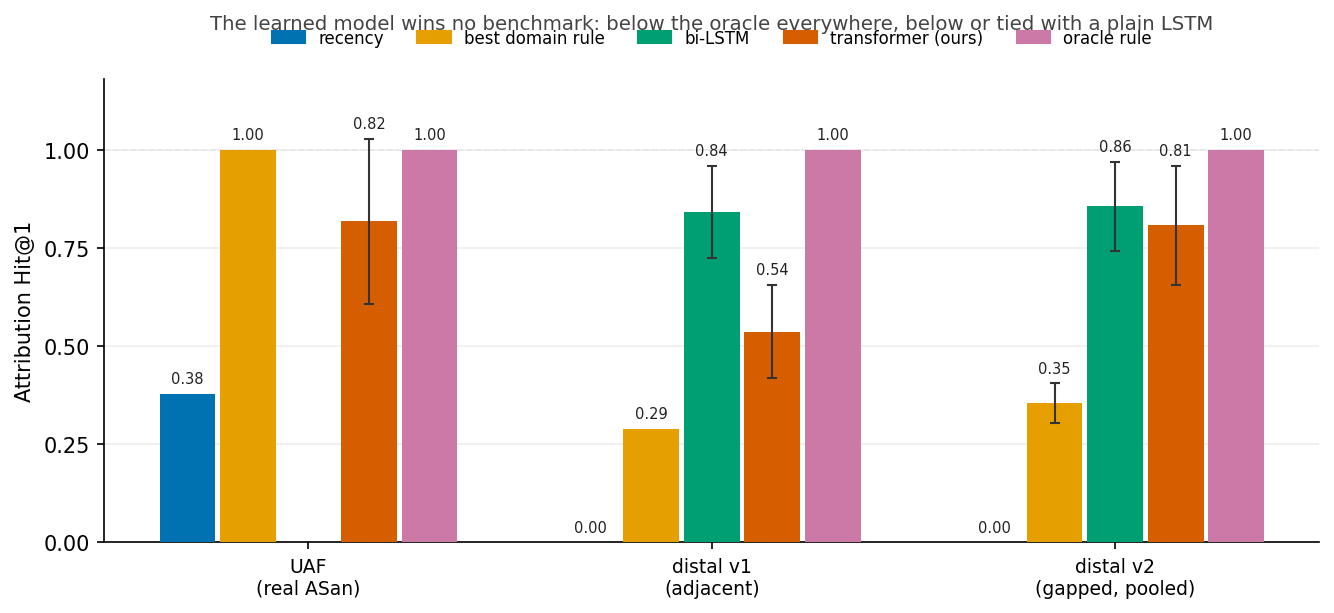
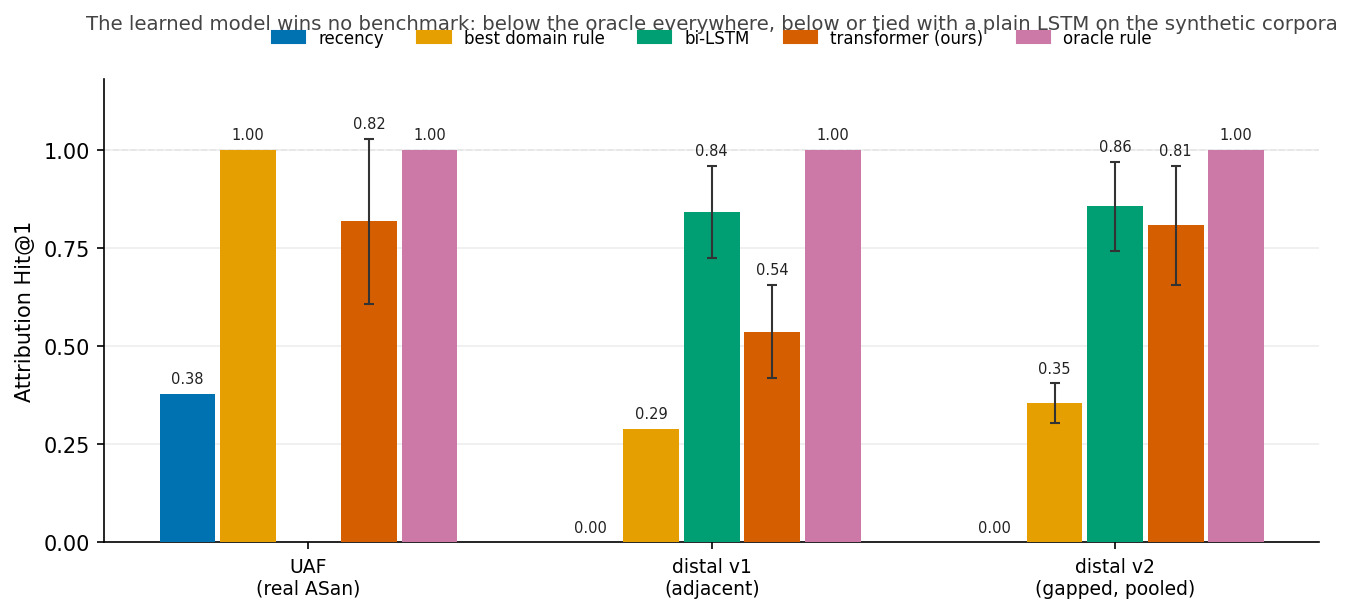
docs(paper): final council pass — fix Fig1 caption pooled-label, add paired sign test (p=0.035) for causal>bidi, scope figure headline

diff --git a/docs/paper/bibe.tex b/docs/paper/bibe.tex
@@ -34,7 +34,7 @@ We found four things, in the order we found them. On use-after-free, labeled aut
 \begin{figure}[t]
   \centering
   \includegraphics[width=\linewidth]{fig1_summary.png}
-  \caption{Attribution Hit@1 by corpus and method. The learned transformer sits below the oracle rule on every corpus and at or below a generic bi-LSTM; it clears the recency-family baselines but never the oracle or the LSTM. Transformer bars use object bias 4; the v2 transformer and same-object-write bars are pooled over three corpus realizations, the rest are a single realization. Error bars are $\pm$ population standard deviation over five model-init seeds; deterministic rules have none. Produced by \code{fig1\_summary.py}.}
+  \caption{Attribution Hit@1 by corpus and method. The learned transformer sits below the oracle rule on every corpus and at or below a generic bi-LSTM; it clears the recency-family baselines but never the oracle or the LSTM. Transformer bars use object bias 4; the UAF and v2 transformer bars and the v2 same-object-write bar are pooled over three corpus realizations, the rest are a single realization. Error bars are $\pm$ population standard deviation over five model-init seeds; deterministic rules have none. Produced by \code{fig1\_summary.py}.}
   \label{fig:summary}
 \end{figure}
 
@@ -94,7 +94,7 @@ Our first generator, v1 (adjacent), emitted the \code{trigger} and the causal wr
 \section{Ablations}
 
 \paragraph{Bidirectional versus causal attention.}
-The system is built around bidirectional attention, on the argument that a cause can precede or follow its symptom in a trace. We had never tested it. Across three corpora, no benchmark shows bidirectionality helping, and the real corpus shows it hurting. On real use-after-free, pooled over three corpus realizations, the backward-only model scores $0.989 \pm 0.021$ against the bidirectional model's $0.818 \pm 0.210$, and it wins on every one of the three realizations ($0.976, 0.994, 0.998$ versus $0.824, 0.819, 0.812$), close to the oracle and far tighter. On v1 the causal model is higher on the mean ($0.805 \pm 0.235$ versus $0.537 \pm 0.118$); on v2 the two overlap. Every cause in these benchmarks precedes its symptom, so backward-only attention is sufficient and the forward half adds noise. We dropped ``bidirectional'' from the title on this result. The forward-cause case that motivated the design appears in none of our benchmarks and remains untested.
+The system is built around bidirectional attention, on the argument that a cause can precede or follow its symptom in a trace. We had never tested it. Across three corpora, no benchmark shows bidirectionality helping, and the real corpus shows it hurting. On real use-after-free, pooled over three corpus realizations, the backward-only model scores $0.989 \pm 0.021$ against the bidirectional model's $0.818 \pm 0.210$, and it wins on every one of the three realizations ($0.976, 0.994, 0.998$ versus $0.824, 0.819, 0.812$), close to the oracle and far tighter. The pooled intervals overlap, but the comparison is paired: the $\pm 0.210$ is model-seed spread around each realization mean, not uncertainty in the effect. Causal beats bidirectional in 12 of 15 seed pairs (sign test, two-sided $p = 0.035$) and in all three realization means. On v1 the causal model is higher on the mean ($0.805 \pm 0.235$ versus $0.537 \pm 0.118$); on v2 the two overlap. Every cause in these benchmarks precedes its symptom, so backward-only attention is sufficient and the forward half adds noise. We dropped ``bidirectional'' from the title on this result. The forward-cause case that motivated the design appears in none of our benchmarks and remains untested.
 
 \paragraph{Object bias.}
 The object-bias prior is the same-object heuristic added to the attention scores. Table~\ref{tab:bias} sweeps it.
@@ -133,7 +133,7 @@ Except where we state a pooled number, each $\pm$ is over five model-init seeds 
 The evaluation now scores the window containing the crash and reports a drop count for anomalous traces whose cause falls outside that window. On the templated corpus the drop count is zero, so its numbers are unchanged. The filter was real, though: the mjs crash sat in window 191 and the old first-window evaluation would have dropped it silently. On a longer corpus this filter would bias the retained set toward traces where the cause sits near the crash, which is where recency is trivially right.
 
 \paragraph{Scope.}
-All corpora share one program family or one generator, so cross-program generalization is unmeasured. The evaluation is at small scale (\dmodel${}=64$, two layers, window 64) with roughly 38 to 82 anomalous test traces per corpus, most of them synthetic. The interesting regime, distal causes, has no automatic oracle, so we could not build a real corpus for it; that is the central limitation and the reason the positive claim stays hypothetical.
+All corpora share one program family or one generator, so cross-program generalization is unmeasured. The evaluation is at small scale (\dmodel${}=64$, two layers, window 64) with roughly 37 to 82 anomalous test traces per corpus, most of them synthetic. The interesting regime, distal causes, has no automatic oracle, so we could not build a real corpus for it; that is the central limitation and the reason the positive claim stays hypothetical.
 
 \paragraph{Baseline fairness.}
 The LSTM trains on a single objective (cause cross-entropy) while the transformer trains on several. On the synthetic corpora both models see whole traces of at most 64 events, so windowing is not a confound there. The residual asymmetries cut both ways: the object prior favors the transformer, while the LSTM's single objective is exactly the cause metric and the transformer's attribution head competes with anomaly and sparsity losses, which favors the LSTM. Neither rescues the transformer, which ties or loses regardless.

diff --git a/docs/paper/fig1_summary.py b/docs/paper/fig1_summary.py
@@ -70,7 +70,7 @@ handles = [plt.Rectangle((0, 0), 1, 1, color=COLOR[m]) for m in METHODS]
 ax.legend(handles, METHODS, ncol=5, fontsize=8, frameon=False,
           loc="upper center", bbox_to_anchor=(0.5, 1.14))
 ax.set_title("The learned model wins no benchmark: below the oracle everywhere, "
-             "below or tied with a plain LSTM",
+             "below or tied with a plain LSTM on the synthetic corpora",
              fontsize=9.5, color="#444444", pad=24)
 fig.tight_layout()
 out = __file__.rsplit("/", 1)[0] + "/fig1_summary.svg"

diff --git a/docs/paper/bibe.md b/docs/paper/bibe.md
@@ -15,7 +15,7 @@ We found four things, in the order we found them. On use-after-free, labeled aut
 
 ![Figure 1](fig1_summary.png)
 
-**Figure 1.** Attribution Hit@1 by corpus and method. The learned transformer sits below the oracle rule on every corpus and at or below a generic bi-LSTM; it clears the recency-family baselines but never the oracle or the LSTM. Transformer bars use object bias 4; the v2 transformer and same-object-write bars are pooled over three corpus realizations, the rest are a single realization. Error bars are ± population standard deviation over five model-init seeds; deterministic rules have none. Produced by `fig1_summary.py`.
+**Figure 1.** Attribution Hit@1 by corpus and method. The learned transformer sits below the oracle rule on every corpus and at or below a generic bi-LSTM; it clears the recency-family baselines but never the oracle or the LSTM. Transformer bars use object bias 4; the UAF and v2 transformer bars and the v2 same-object-write bar are pooled over three corpus realizations, the rest are a single realization. Error bars are ± population standard deviation over five model-init seeds; deterministic rules have none. Produced by `fig1_summary.py`.
 
 The reason the result is worth reporting, rather than filing as a failed experiment, is that the failure has a clean structure. Learning does not help where an automatic oracle exists, because the property that creates the oracle (the cause is the most-recent related event) also solves the problem in one line. Learning might help where the cause is distal, but that regime has no automatic oracle, so there is no cheap way to get the labels a model needs. The gap between the two is not a modeling gap. It is a data-acquisition wall, and we walked into it on real code.
 
@@ -65,7 +65,7 @@ Our first generator, v1 (adjacent), emitted the `trigger` and the causal write a
 
 ## 5. Ablations
 
-**Bidirectional versus causal attention.** The system is built around bidirectional attention, on the argument that a cause can precede or follow its symptom in a trace. We had never tested it. Across three corpora, no benchmark shows bidirectionality helping, and the real corpus shows it hurting. On real use-after-free, pooled over three corpus realizations, the backward-only model scores 0.989 ± 0.021 against the bidirectional model's 0.818 ± 0.210, and it wins on every one of the three realizations (0.976, 0.994, 0.998 versus 0.824, 0.819, 0.812), close to the oracle and far tighter. On v1 the causal model is higher on the mean (0.805 ± 0.235 versus 0.537 ± 0.118); on v2 the two overlap. Every cause in these benchmarks precedes its symptom, so backward-only attention is sufficient and the forward half adds noise. We dropped "bidirectional" from the title on this result. The forward-cause case that motivated the design appears in none of our benchmarks and remains untested.
+**Bidirectional versus causal attention.** The system is built around bidirectional attention, on the argument that a cause can precede or follow its symptom in a trace. We had never tested it. Across three corpora, no benchmark shows bidirectionality helping, and the real corpus shows it hurting. On real use-after-free, pooled over three corpus realizations, the backward-only model scores 0.989 ± 0.021 against the bidirectional model's 0.818 ± 0.210, and it wins on every one of the three realizations (0.976, 0.994, 0.998 versus 0.824, 0.819, 0.812), close to the oracle and far tighter. The pooled intervals overlap, but the comparison is paired: the ± 0.210 is model-seed spread around each realization mean, not uncertainty in the effect. Causal beats bidirectional in 12 of 15 seed pairs (sign test, two-sided p = 0.035) and in all three realization means. On v1 the causal model is higher on the mean (0.805 ± 0.235 versus 0.537 ± 0.118); on v2 the two overlap. Every cause in these benchmarks precedes its symptom, so backward-only attention is sufficient and the forward half adds noise. We dropped "bidirectional" from the title on this result. The forward-cause case that motivated the design appears in none of our benchmarks and remains untested.
 
 **Object bias.** The object-bias prior is the same-object heuristic added to the attention scores. Table 2 sweeps it.
 
@@ -93,7 +93,7 @@ The part that does not work is the measurement. `gc_free_block` occurs exactly o
 
 **Selection by window.** The evaluation now scores the window containing the crash and reports a drop count for anomalous traces whose cause falls outside that window. On the templated corpus the drop count is zero, so its numbers are unchanged. The filter was real, though: the mjs crash sat in window 191 and the old first-window evaluation would have dropped it silently. On a longer corpus this filter would bias the retained set toward traces where the cause sits near the crash, which is where recency is trivially right.
 
-**Scope.** All corpora share one program family or one generator, so cross-program generalization is unmeasured. The evaluation is at small scale (d\_model 64, two layers, window 64) with roughly 38 to 82 anomalous test traces per corpus, most of them synthetic. The interesting regime, distal causes, has no automatic oracle, so we could not build a real corpus for it; that is the central limitation and the reason the positive claim stays hypothetical.
+**Scope.** All corpora share one program family or one generator, so cross-program generalization is unmeasured. The evaluation is at small scale (d\_model 64, two layers, window 64) with roughly 37 to 82 anomalous test traces per corpus, most of them synthetic. The interesting regime, distal causes, has no automatic oracle, so we could not build a real corpus for it; that is the central limitation and the reason the positive claim stays hypothetical.
 
 **Baseline fairness.** The LSTM trains on a single objective (cause cross-entropy) while the transformer trains on several. On the synthetic corpora both models see whole traces of at most 64 events, so windowing is not a confound there. The residual asymmetries cut both ways: the object prior favors the transformer, while the LSTM's single objective is exactly the cause metric and the transformer's attribution head competes with anomaly and sparsity losses, which favors the LSTM. Neither rescues the transformer, which ties or loses regardless.
 